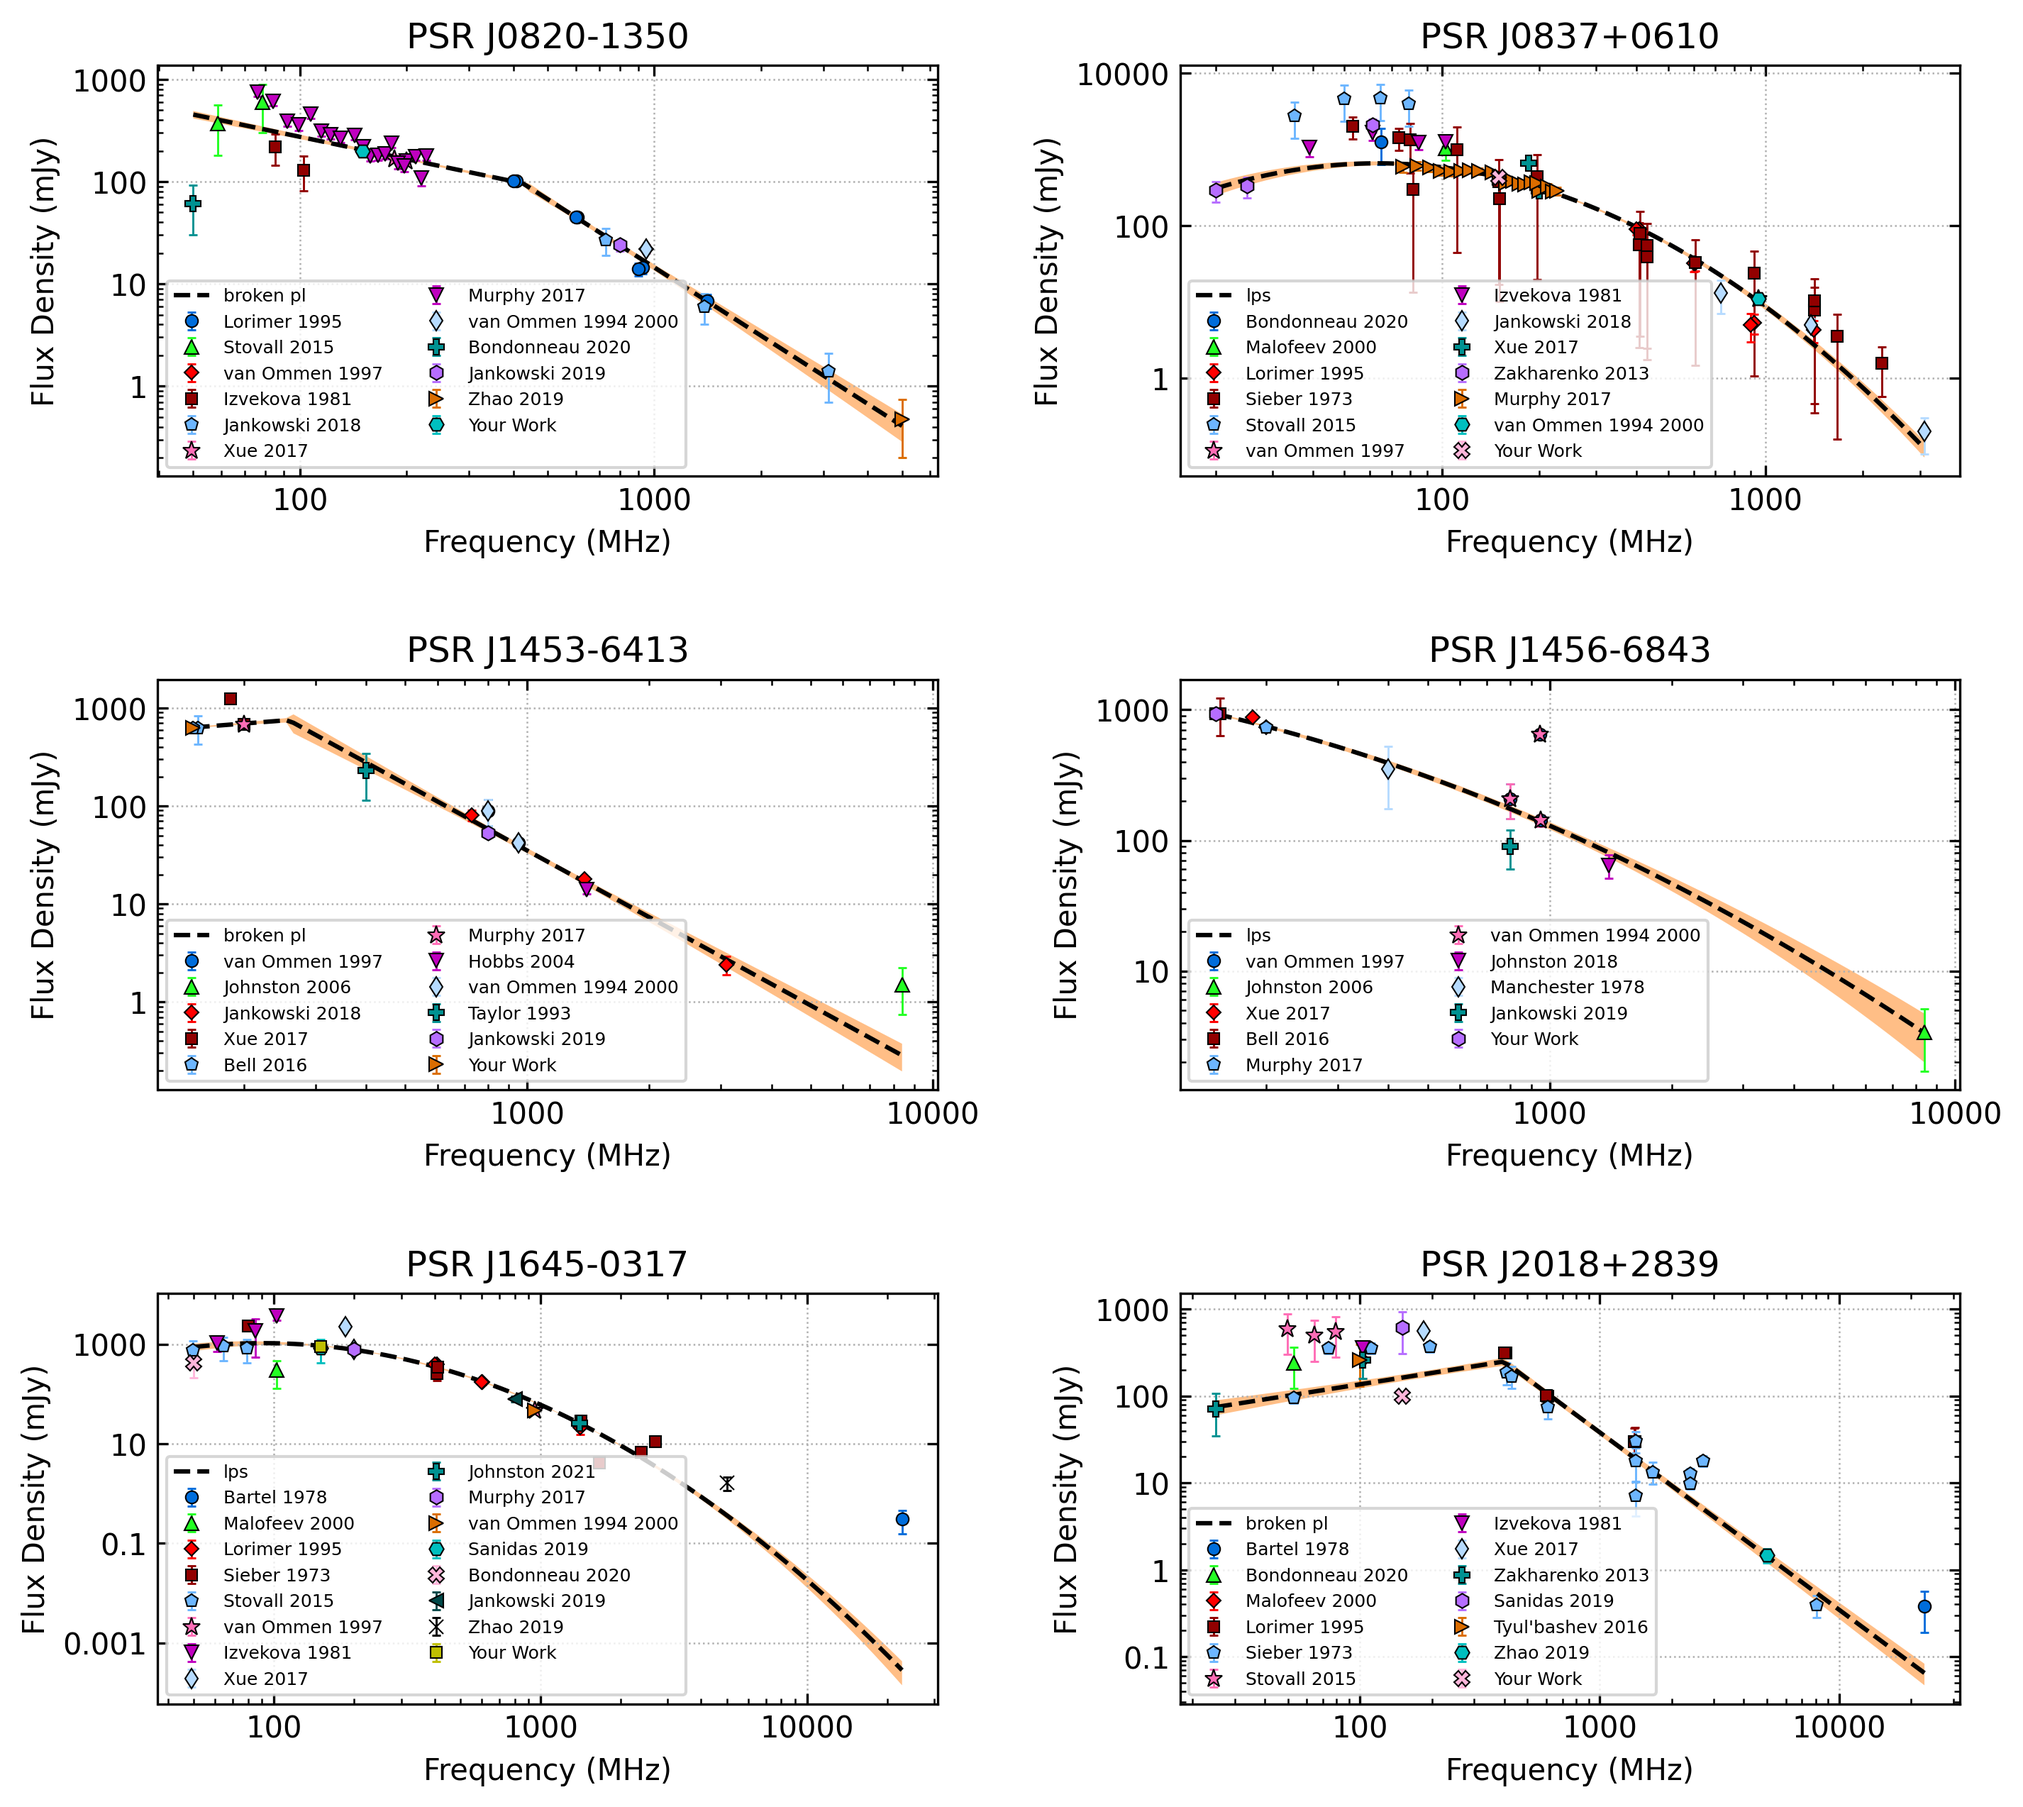
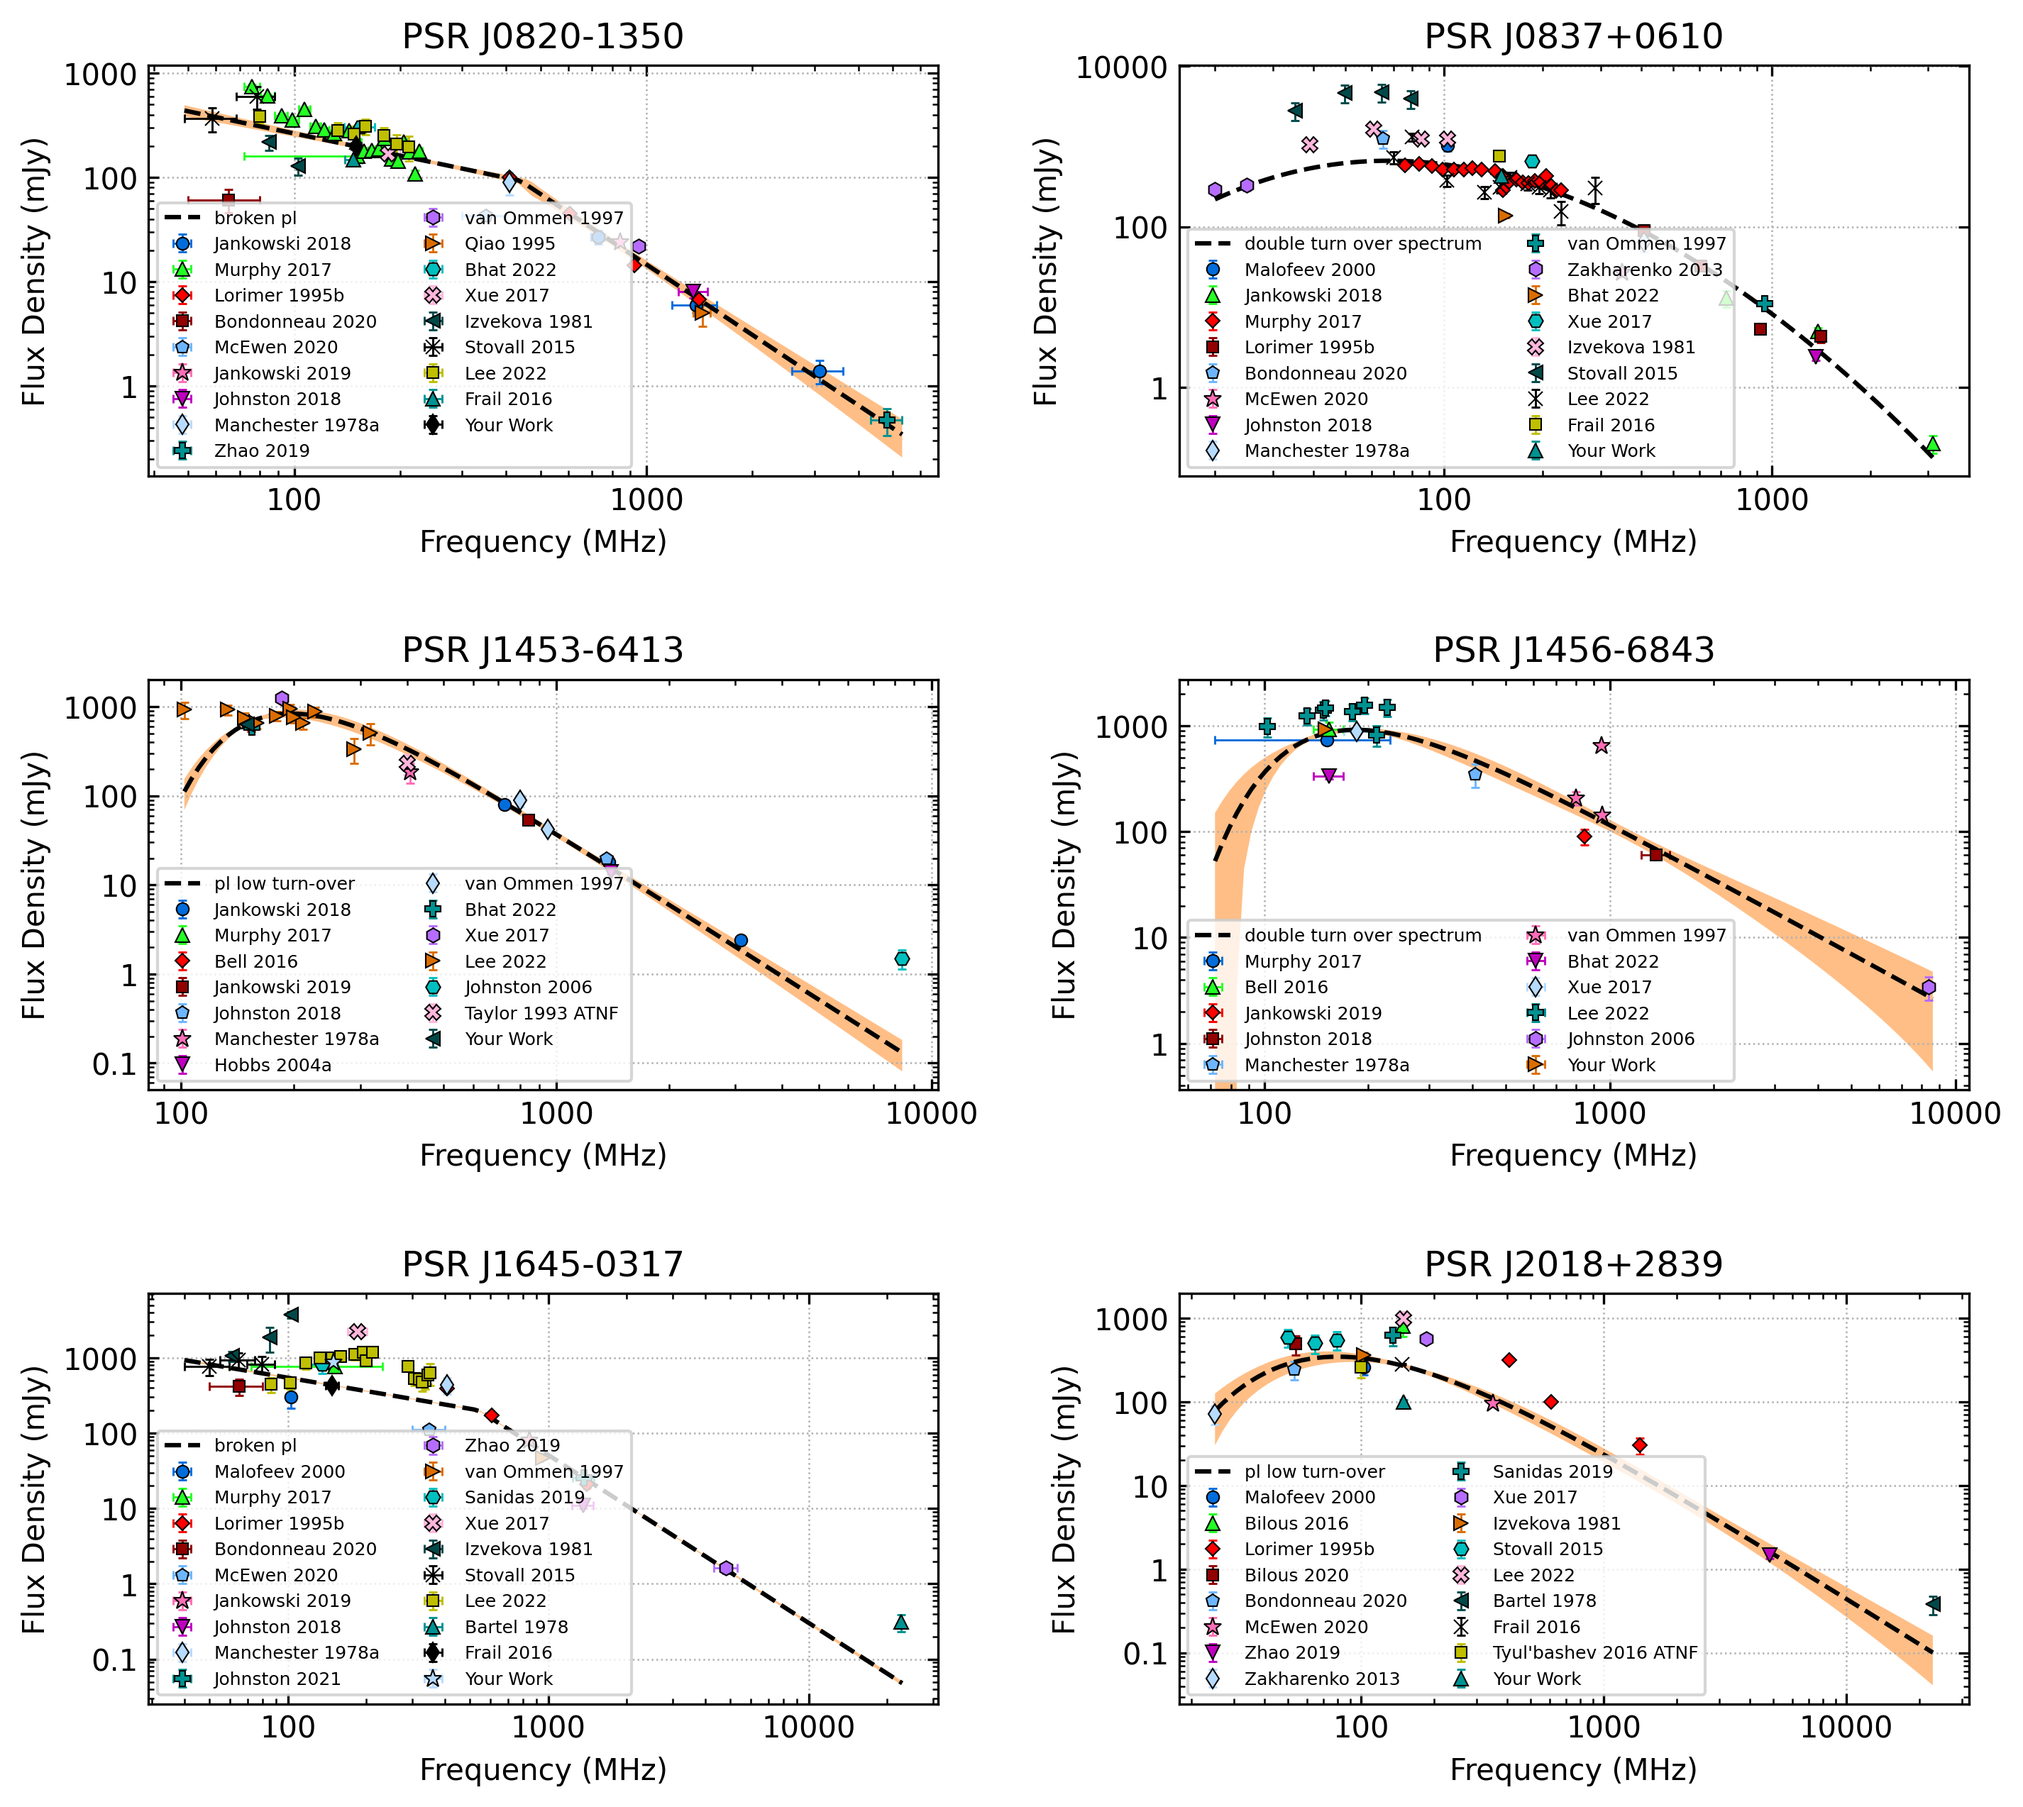
Updated the examples to use the new bandwidth format

diff --git a/docs/example_scripts/creating_a_multi_pulsar_plot.py b/docs/example_scripts/creating_a_multi_pulsar_plot.py
@@ -17,13 +17,14 @@ fig, axs = plt.subplots(nrows=rows, ncols=cols, figsize=(5*cols, 3*rows))
 
 cat_list = collect_catalogue_fluxes()
 for pulsar, flux, flux_err, ax_i in pulsar_flux:
-    freqs, fluxs, flux_errs, refs = cat_list[pulsar]
+    freqs, bands, fluxs, flux_errs, refs = cat_list[pulsar]
     freqs += [150.]
+    bands += [10.]
     fluxs += [flux]
     flux_errs += [flux_err]
     refs += ["Your Work"]
 
-    model, m, fit_info, p_best, p_category = find_best_spectral_fit(pulsar, freqs, fluxs, flux_errs, refs, plot_best=True, alternate_style=True, axis=axs[ax_i//cols, ax_i%cols])
+    model, m, fit_info, p_best, p_category = find_best_spectral_fit(pulsar, freqs, bands, fluxs, flux_errs, refs, plot_best=True, alternate_style=True, axis=axs[ax_i//cols, ax_i%cols])
     axs[ax_i//cols, ax_i%cols].set_title('PSR '+pulsar)
 
 plt.tight_layout(pad=2.5)

diff --git a/docs/example_scripts/simple_example.py b/docs/example_scripts/simple_example.py
@@ -2,9 +2,9 @@ from pulsar_spectra.catalogue import collect_catalogue_fluxes
 from pulsar_spectra.spectral_fit import find_best_spectral_fit
 
 cat_list = collect_catalogue_fluxes()
-pulsar = 'J1453-6413'
-freqs, fluxs, flux_errs, refs = cat_list[pulsar]
-best_model_name, iminuit_result, fit_info, p_best, p_category = find_best_spectral_fit(pulsar, freqs, fluxs, flux_errs, refs, plot_best=True)
+pulsar = 'J0332+5434'
+freqs, bands, fluxs, flux_errs, refs = cat_list[pulsar]
+best_model_name, iminuit_result, fit_info, p_best, p_category = find_best_spectral_fit(pulsar, freqs, bands, fluxs, flux_errs, refs, plot_best=True)
 
 print(f"Best fit model: {best_model_name}")
 for p, v, e in zip(iminuit_result.parameters, iminuit_result.values, iminuit_result.errors):

diff --git a/docs/example_scripts/estimate_emission_height.py b/docs/example_scripts/estimate_emission_height.py
@@ -4,11 +4,11 @@ from pulsar_spectra.analysis import calc_high_frequency_cutoff_emission_height
 
 cat_dict = collect_catalogue_fluxes()
 pulsar = 'J0452-1759'
-freqs, fluxs, flux_errs, refs = cat_dict[pulsar]
-model_name, m, _, _, _ = find_best_spectral_fit(pulsar, freqs, fluxs, flux_errs, refs)
+freqs, bands, fluxs, flux_errs, refs = cat_dict[pulsar]
+model_name, m, _, _, _ = find_best_spectral_fit(pulsar, freqs, bands, fluxs, flux_errs, refs)
 if model_name == "high_frequency_cut_off_power_law":
     B_pc, u_B_pc, B_surf, B_lc, r_lc, z_e, u_z_e, z_percent, u_z_percent = calc_high_frequency_cutoff_emission_height(
-        pulsar, 
+        pulsar,
         m.values[0],
         m.errors[0],
     )

diff --git a/docs/example_scripts/estimate_flux.py b/docs/example_scripts/estimate_flux.py
@@ -3,7 +3,7 @@ from pulsar_spectra.catalogue import collect_catalogue_fluxes
 
 cat_list = collect_catalogue_fluxes()
 pulsar = 'J0820-1350'
-freqs, fluxs, flux_errs, refs = cat_list[pulsar]
-model, m, _, _, _ = find_best_spectral_fit(pulsar, freqs, fluxs, flux_errs, refs, plot_best=True)
-fitted_flux, fitted_flux_err = estimate_flux_density(150., model[0], m)
+freqs, bands, fluxs, flux_errs, refs = cat_list[pulsar]
+model, m, _, _, _ = find_best_spectral_fit(pulsar, freqs, bands, fluxs, flux_errs, refs, plot_best=True)
+fitted_flux, fitted_flux_err = estimate_flux_density(150., model, m)
 print(f"{pulsar} estimated flux: {fitted_flux:.1f} ± {fitted_flux_err:.1f} mJy")

diff --git a/docs/example_scripts/adding_your_data.py b/docs/example_scripts/adding_your_data.py
@@ -2,10 +2,11 @@ from pulsar_spectra.catalogue import collect_catalogue_fluxes
 from pulsar_spectra.spectral_fit import find_best_spectral_fit
 
 cat_list = collect_catalogue_fluxes()
-pulsar = 'J0034-0534'
-freqs, fluxs, flux_errs, refs = cat_list[pulsar]
+pulsar = 'J0040+5716'
+freqs, bands, fluxs, flux_errs, refs = cat_list[pulsar]
 freqs += [300.]
-fluxs += [32.]
-flux_errs += [3.]
+bands += [30.]
+fluxs += [10.]
+flux_errs += [2.]
 refs += ["Your Work"]
-find_best_spectral_fit(pulsar, freqs, fluxs, flux_errs, refs, plot_best=True)
+find_best_spectral_fit(pulsar, freqs, bands, fluxs, flux_errs, refs, plot_best=True)

diff --git a/docs/example_scripts/peak_frequency_lps.py b/docs/example_scripts/peak_frequency_lps.py
@@ -4,8 +4,8 @@ from pulsar_spectra.analysis import calc_log_parabolic_spectrum_max_freq
 
 cat_dict = collect_catalogue_fluxes()
 pulsar = 'J1136+1551'
-freqs, fluxs, flux_errs, refs = cat_dict[pulsar]
-model_name, m, _, _, _ = find_best_spectral_fit(pulsar, freqs, fluxs, flux_errs, refs)
+freqs, bands, fluxs, flux_errs, refs = cat_dict[pulsar]
+model_name, m, _, _, _ = find_best_spectral_fit(pulsar, freqs, bands, fluxs, flux_errs, refs)
 if model_name == "log_parabolic_spectrum":
     v_peak, u_v_peak = calc_log_parabolic_spectrum_max_freq(
         m.values["a"],

diff --git a/docs/examples.rst b/docs/examples.rst
@@ -4,7 +4,7 @@ Examples
 Simple example
 --------------
 
-The following can be run to fit J1453-6413
+The following can be run to fit J0332+5434
 
 .. script location: example_scripts/simple_example.py
 .. code-block:: python
@@ -13,13 +13,13 @@ The following can be run to fit J1453-6413
     from pulsar_spectra.spectral_fit import find_best_spectral_fit
 
     cat_dict = collect_catalogue_fluxes()
-    pulsar = 'J1453-6413'
-    freqs, fluxs, flux_errs, refs = cat_dict[pulsar]
-    best_model_name, iminuit_result, fit_info, p_best, p_category = find_best_spectral_fit(pulsar, freqs, fluxs, flux_errs, refs, plot_best=True)
+    pulsar = 'J0332+5434'
+    freqs, bands, fluxs, flux_errs, refs = cat_dict[pulsar]
+    best_model_name, iminuit_result, fit_info, p_best, p_category = find_best_spectral_fit(pulsar, freqs, bands, fluxs, flux_errs, refs, plot_best=True)
 
-This will produce J1453-6413_simple_power_law_fit.png
+This will produce J0332+5434_low_frequency_turn_over_power_law_fit.png
 
-.. image:: figures/J1453-6413_low_frequency_turn_over_power_law_fit.png
+.. image:: figures/J0332+5434_low_frequency_turn_over_power_law_fit.png
   :width: 800
 
 If you would like to see the result of the best fit you can print them like so
@@ -38,11 +38,11 @@ which will output
 .. code-block::
 
     Best fit model: low_frequency_turn_over_power_law
-    vc =    181.3 +/-    6e+00 MHz
-    a = -2.41825 +/- 0.080367
-    b = 0.02733 +/- 0.0021376
-    beta = 2.10000 +/- 0.32991
-    v0 =   1122.5 +/-    1e+01 MHz
+    vpeak =    161.5 +/-    6e+00 MHz
+    a = -2.42975 +/- 0.1469
+    c = 1.66104 +/- 0.15576
+    beta = 0.69976 +/- 0.019222
+    v0 =    753.3 +/-    8e+00 MHz
 
 Adding your data
 ----------------
@@ -56,17 +56,18 @@ Expanding on the previous example you add your own example like so
     from pulsar_spectra.spectral_fit import find_best_spectral_fit
 
     cat_list = collect_catalogue_fluxes()
-    pulsar = 'J0034-0534'
-    freqs, fluxs, flux_errs, refs = cat_list[pulsar]
+    pulsar = 'J0040+5716'
+    freqs, bands, fluxs, flux_errs, refs = cat_list[pulsar]
     freqs += [300.]
-    fluxs += [32.]
-    flux_errs += [3.]
+    bands += [30.]
+    fluxs += [10.]
+    flux_errs += [2.]
     refs += ["Your Work"]
-    find_best_spectral_fit(pulsar, freqs, fluxs, flux_errs, refs, plot_best=True)
+    find_best_spectral_fit(pulsar, freqs, bands, fluxs, flux_errs, refs, plot_best=True)
 
-This will also produce J0034-0534_simple_power_law_fit.png with your data included in the fit and plot.
+This will also produce J0040+5716_simple_power_law_fit.png with your data included in the fit and plot.
 
-.. image:: figures/J0034-0534_simple_power_law_fit.png
+.. image:: figures/J0040+5716_simple_power_law_fit.png
   :width: 800
 
 
@@ -97,13 +98,14 @@ You can create a plot containing multiple pulsars by handing the find_best_spect
 
     cat_dict = collect_catalogue_fluxes()
     for pulsar, flux, flux_err, ax_i in pulsar_flux:
-        freqs, fluxs, flux_errs, refs = cat_dict[pulsar]
+        freqs, bands, fluxs, flux_errs, refs = cat_list[pulsar]
         freqs += [150.]
+        bands += [10.]
         fluxs += [flux]
         flux_errs += [flux_err]
         refs += ["Your Work"]
 
-        model, m, fit_info, p_best, p_category = find_best_spectral_fit(pulsar, freqs, fluxs, flux_errs, refs, plot_best=True, alternate_style=True, axis=axs[ax_i//cols, ax_i%cols])
+        model, m, fit_info, p_best, p_category = find_best_spectral_fit(pulsar, freqs, bands, fluxs, flux_errs, refs, plot_best=True, alternate_style=True, axis=axs[ax_i//cols, ax_i%cols])
         axs[ax_i//cols, ax_i%cols].set_title('PSR '+pulsar)
 
     plt.tight_layout(pad=2.5)
@@ -127,8 +129,8 @@ You can use the pulsar's fit to estimate a pulsar's flux density at a certain fr
 
     cat_dict = collect_catalogue_fluxes()
     pulsar = 'J0820-1350'
-    freqs, fluxs, flux_errs, refs = cat_dict[pulsar]
-    model, m, _, _, _ = find_best_spectral_fit(pulsar, freqs, fluxs, flux_errs, refs, plot_best=True)
+    freqs, bands, fluxs, flux_errs, refs = cat_list[pulsar]
+    model, m, _, _, _ = find_best_spectral_fit(pulsar, freqs, bands, fluxs, flux_errs, refs, plot_best=True)
     fitted_flux, fitted_flux_err = estimate_flux_density(150., model, m)
     print(f"{pulsar} estimated flux: {fitted_flux:.1f} ± {fitted_flux_err:.1f} mJy")
 
@@ -136,12 +138,13 @@ Which will output
 
 .. code-block::
 
-    J0820-1350 estimated flux: 208.7 ± 8.6 mJy
+    J0820-1350 estimated flux: 197.6 ± 11.6 mJy
 
 Calculate the peak frequency for a log parabolic spectrum fit
 -------------------------------------------------------------
 
-You can use the pulsar's fit to calculate the peak frequency like so:
+Log parabolic spectrum is no longer used by default.
+If you turn it back on, you can use the pulsar's fit to calculate the peak frequency like so:
 
 .. script location: example_scripts/peak_frequency_lps.py
 .. code-block:: python
@@ -152,8 +155,8 @@ You can use the pulsar's fit to calculate the peak frequency like so:
 
     cat_dict = collect_catalogue_fluxes()
     pulsar = 'J1136+1551'
-    freqs, fluxs, flux_errs, refs = cat_dict[pulsar]
-    model_name, m, _, _, _ = find_best_spectral_fit(pulsar, freqs, fluxs, flux_errs, refs)
+    freqs, bands, fluxs, flux_errs, refs = cat_dict[pulsar]
+    model_name, m, _, _, _ = find_best_spectral_fit(pulsar, freqs, bands, fluxs, flux_errs, refs)
     if model_name == "log_parabolic_spectrum":
         v_peak, u_v_peak = calc_log_parabolic_spectrum_max_freq(
             m.values["a"],
@@ -190,8 +193,8 @@ To perform this calculation, use the in-built function as follows:
 
     cat_dict = collect_catalogue_fluxes()
     pulsar = 'J0452-1759'
-    freqs, fluxs, flux_errs, refs = cat_dict[pulsar]
-    model_name, m, _, _, _ = find_best_spectral_fit(pulsar, freqs, fluxs, flux_errs, refs)
+    freqs, bands, fluxs, flux_errs, refs = cat_dict[pulsar]
+    model_name, m, _, _, _ = find_best_spectral_fit(pulsar, freqs, bands, fluxs, flux_errs, refs)
     if model_name == "high_frequency_cut_off_power_law":
         B_pc, u_B_pc, B_surf, B_lc, r_lc, z_e, u_z_e, z_percent, u_z_percent = calc_high_frequency_cutoff_emission_height(
             pulsar,
